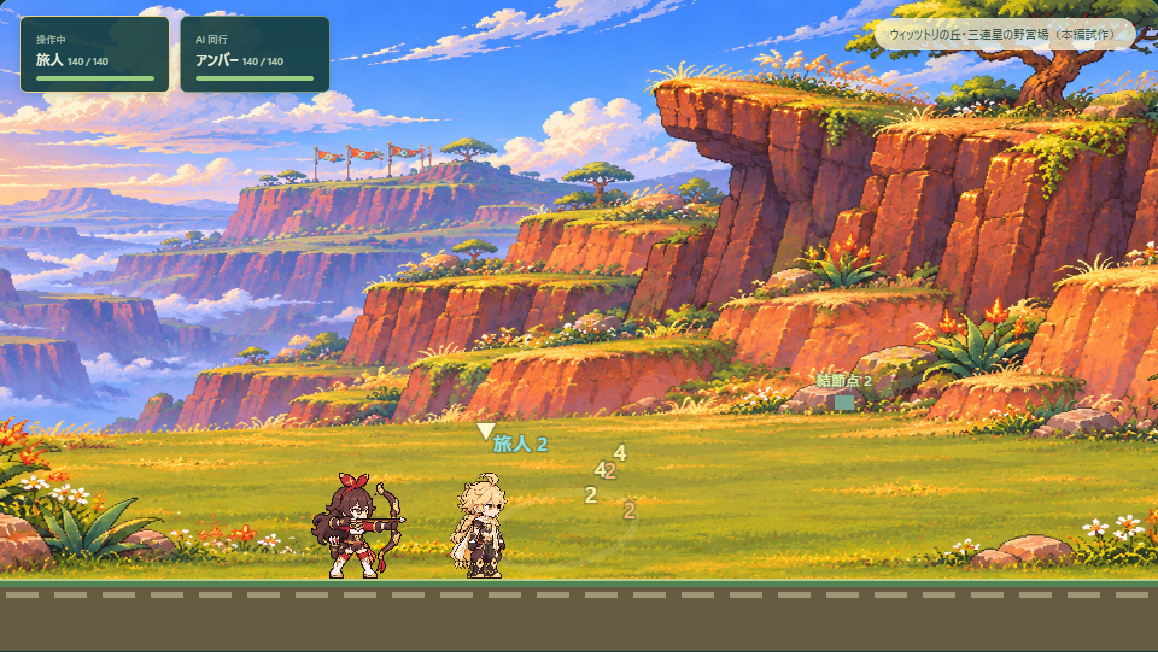
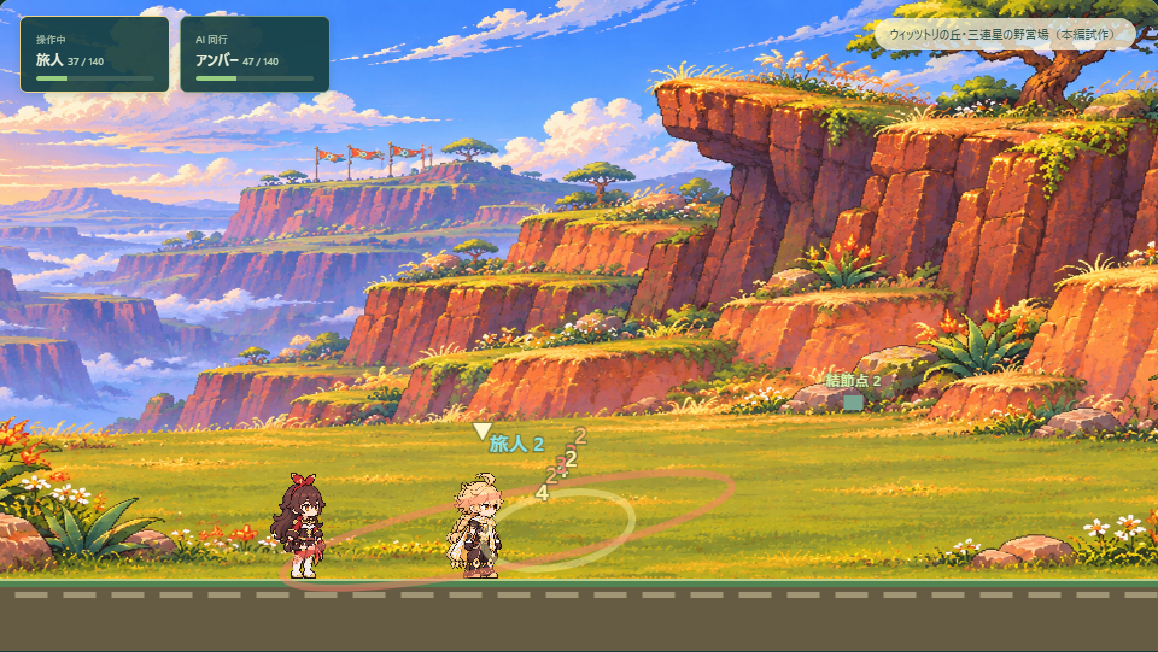
Give grouped local legends distinct attacks and cancel defeated casters

diff --git a/test_coop_legend_groups.py b/test_coop_legend_groups.py
@@ -40,6 +40,85 @@ def field_hp(frame):
     return [body['hp'] for body in frame['bodies']]
 
 
+def verify_moves(lua, core, id):
+    spec = SPECS[id]
+    states = [core.new(12) for _ in range(4)]
+    for state in states:
+        core.action(state, 'story_start')
+        enter(core, state, spec)
+    host, guest, distant, elevated = states
+    room = core.newCoop(host)
+    for state in states:
+        core.attachCoop(room, state)
+    slot, group = room.fieldSlot, room.fieldSlot.enemy
+    members = {body.id: body for body in group.fieldMembers.values()}
+    moves = spec['moves']
+    assert {move['member'] for move in moves} == set(members)
+
+    def wait_for_move(expected):
+        for _ in range(420):
+            core.stepCoop(room, TICK)
+            if slot.cast:
+                break
+        assert slot.cast and slot.cast.move.id == expected['id']
+        assert slot.cast.member.id == expected['member']
+        frames = [native(core.frame(state).fieldBoss) for state in states]
+        assert all(frame['moveOwner'] == expected['member'] for frame in frames)
+        assert all(frame['warnings'] == frames[0]['warnings'] for frame in frames)
+        assert all(warning['element'] == members[expected['member']].element for warning in frames[0]['warnings'])
+        return slot.cast
+
+    fired = []
+    for move in moves:
+        for state in states:
+            place(state, members[move['member']].x - 55)
+        cast = wait_for_move(move)
+        strike = cast.strikes[1]
+        moving = 'travel' in move['steps'][0] or 'wave' in move['steps'][0]
+        impact = strike.position if moving else (strike.left + strike.right) / 2
+        for state in (host, guest, elevated):
+            place(state, impact)
+        place(distant, 20)
+        seqs = [state.seq for state in states]
+        start = members[move['member']].x
+        for _ in range(strike.step.first):
+            elevated.actors[1].y, elevated.actors[1].vy, elevated.actors[1].ground = 250, 0, False
+            core.stepCoop(room, TICK)
+        for index, state in enumerate(states):
+            hurts = [event for event in state.events.values() if event.seq > seqs[index] and event.kind == 'hurt']
+            assert [(event.target, event.element) for event in hurts] == (
+                [(move['member'], members[move['member']].element)] if index < 2 else []
+            )
+            place(state, 20)
+        if 'travel' in move['steps'][0]:
+            assert members[move['member']].x != start
+        fired.append(move['id'])
+        for _ in range(move['total'] - strike.step.first):
+            place(host, max(spec['arenaMin'] + 8, members[move['member']].x - 285))
+            core.stepCoop(room, TICK)
+        assert not slot.cast
+
+    owner = members[moves[0]['member']]
+    place(host, owner.x - 55)
+    wait_for_move(moves[0])
+    place(guest, owner.x)
+    guest_seq = guest.seq
+    assert hit(lua, core, host, owner, 9000) > 0
+    assert not slot.cast and slot.phase == 'combat' and group.hp > 0
+    assert all(core.frame(state).fieldBoss.moveOwner is None for state in states)
+    place(host, members[moves[1]['member']].x - 55)
+    place(guest, members[moves[1]['member']].x - 55)
+    wait_for_move(moves[1])
+    for _ in range(moves[0]['steps'][0]['first']):
+        core.stepCoop(room, TICK)
+    assert not any(event.kind == 'hurt' and event.target == owner.id and event.seq > guest_seq
+                   for event in guest.events.values())
+    assert [state.kills for state in states] == [0] * 4
+    return {'id': id, 'testedMoves': fired, 'participants': len(states), 'defeatedBeforeHit': owner.id,
+            'nextOwner': moves[1]['member'], 'sharedWarningsAndElementPerMember': True,
+            'distanceAndHeightAvoidDamage': True}
+
+
 def simulate_group(lua, core, id):
     spec = SPECS[id]
     states = [core.new(12) for _ in range(4)]
@@ -113,10 +192,15 @@ def simulate_group(lua, core, id):
 def run_lua():
     lua, core = runtime()
     output = [simulate_group(lua, core, id) for id in IDS]
+    for row in output:
+        row['moveChecks'] = verify_moves(lua, core, row['id'])
     state = core.new(12)
     core.action(state, 'story_start')
     entry = NODES[SPECS[TRISTARS]['node']]['exits'][0]['to']
     enter(core, state, SPECS[TRISTARS], entry)
+    for slot in (1, 2, 3):
+        assert core.giveArtifact(state, slot, 40, 3)
+        core.action(state, 'artifact_equip:' + str(slot))
     core.enterStoryNode(state, 'natlan-hub')
     save_json('work/coop-legend-groups-fixture.json', validate_save(native(core.checkpoint(state))))
     return output

diff --git a/test_natlan_first_legends.py b/test_natlan_first_legends.py
@@ -36,6 +36,9 @@ def start(id, level):
     core.action(s, 'story_start')
     core.enterStoryNode(s, HUB)
     core.grantExp(s, exp(level), 'quest')
+    for slot in (1, 2, 3):
+        assert core.giveArtifact(s, slot, 40, 3)
+        core.action(s, 'artifact_equip:' + str(slot))
     core.enterStoryNode(s, HOSTS[id])
     return s
 
@@ -72,11 +75,14 @@ def rewards(s):
 
 
 def defeat(s, walk, body):
-    walk.approach(body.x - 44, 480, body.id)
-    walk.actor.dir = 1
     for _ in range(4500):
         if body.hp <= 0:
             return
+        assert walk.actor.hp > 0 and s.story.node == specs[body.fieldBoss]['node']
+        distance = body.x - walk.actor.x
+        if abs(distance) > 72:
+            walk.approach(body.x - (44 if distance > 0 else -44), 480, body.id)
+        walk.actor.dir = 1 if body.x >= walk.actor.x else -1
         tick(s, 1, attack)
     raise AssertionError((body.id, body.hp, s.t))
 
@@ -132,7 +138,7 @@ snapshots = []
 for i, member in enumerate(members):
     defeat(s, walk, member)
     field = native(core.frame(s).fieldBoss)
-    assert all(body['hp'] == (0 if index <= i else body['maxhp'])
+    assert all(body['hp'] == 0 if index <= i else 0 < body['hp'] <= body['maxhp']
                for index, body in enumerate(field['bodies']))
     assert field['hp'] == sum(body['hp'] for body in field['bodies'])
     snapshots.append([body['hp'] for body in field['bodies']])

diff --git a/test_natlan_final_legends.py b/test_natlan_final_legends.py
@@ -82,11 +82,13 @@ def reward_totals(state):
 
 
 def defeat_body(state, walk, body):
-    walk.approach(body.x - 42, 480, body.id)
-    walk.actor.dir = 1
     for _ in range(6900):
         if body.hp <= 0:
             break
+        distance = body.x - walk.actor.x
+        if abs(distance) > 72:
+            walk.approach(body.x - (42 if distance > 0 else -42), 480, body.id)
+        walk.actor.dir = 1 if body.x >= walk.actor.x else -1
         core.step(state, 1 / 60, attack)
     assert body.hp <= 0, (body.id, body.hp)
 
@@ -169,7 +171,7 @@ assert [body.y - body.hitTop for body in members] == [body['artHeight'] for body
 before = reward_totals(state)
 defeat_body(state, walk, members[0])
 assert reward_totals(state) == before and state.endgame.bosses[PAIR] is None
-assert group.hp == members[1].hp == members[1].maxhp
+assert group.hp == members[1].hp > 0
 walk.cross(d_trail)
 walk.cross(pair['node'])
 state.actors[2].hp = 0

diff --git a/test_snez_late_field_legends.py b/test_snez_late_field_legends.py
@@ -206,7 +206,7 @@ assert [member.hp for member in members] == [member['hp'] for member in beasts['
 for member in members:
     hit(state, walk, member)
 xp[BEASTS] = check_clear(state, beasts, before)
-assert not beasts['moves']
+assert {move['member'] for move in beasts['moves']} == {member.id for member in members}
 walk.cross(alley)
 walk.cross(junction)
 walk.cross(MINE_HOST)

diff --git a/docs/COOP_WEB_PREVIEW.md b/docs/COOP_WEB_PREVIEW.md
@@ -282,9 +282,17 @@ Chromeの2画面で12と14のダメージを重ねて半タルパを倒し、両
 
 各個体は固有のHPを持ち、組のHP欄に残りの合計が出る。最後の1体を倒した時点で、直前12秒にいずれかの個体に有効打を入れ、会場でいずれかの個体の近くにいる参加者に一度ずつ報酬が入る。途中で全員が退くと進行は止まり、戻れば続きから試せる。討伐後は全員で出口を通り、同じ部屋のまま入り直すと全個体と再戦できる。
 
-Luaで各3組の個体HP、途中報酬なし、距離と有効打による報酬対象、セーブ、再戦を確認。HTTPでは異色三連星が途中で全員退出しても、倒した個体が倒されたまま残ることを確かめた。各組の専用技は今後の制作項目。 [Lua・HTTPの検証](../evidence/coop-legend-groups-lua-http.json)
+生きている個体が順番に攻撃する。予告中に攻撃役を倒すと、その攻撃は消えて次の個体に移る。以下はラボ用の試作攻撃。
 
-Chromeの2画面で合言葉を入力し、通常攻撃で三連星を順に討伐した。最初の2体を倒した時点では討伐数0、3体目で両画面に討伐1件と550モラが入り、保存にも記録された。二人で出口を通ってから再入場すると、同じ合言葉の部屋で3体が復帰した。初期セーブは `python test_coop_legend_groups.py`、Chromeの試走は `node test_coop_legend_groups.mjs` で再現できる。 [合流](../evidence/coop-tristars-gather.png) · [一体目の討伐](../evidence/coop-tristars-first-down.png) · [Chromeの検証](../evidence/coop-tristars-browser.json)
+| 地方伝説 | 個体ごとの攻撃 |
+| --- | --- |
+| 異色三連星 | 氷銃は低い冷気弾、雷槌は踏み込みと追い打ち、炎銃は二つの着弾。 |
+| 「戦羊」と「鉄爪」 | 戦羊は角を下げて突進、鉄爪は飛び込みから爪払い。 |
+| 荒くれの異怪の獣衆 | スタヴローギンは木筒から水弾、バルバラは脚刃の二連撃、ヴェルホヴェンスキーは採鉱具の三連打。 |
+
+Luaの4人試験で8体の予告と命中、距離と高さでの回避、討伐による予告の解除、途中報酬が出ないこと、セーブと再戦を確認した。HTTPの2人試験では、異色三連星から一時撤退しても、合流時に倒した個体が復活しないことを確認した。 [Lua・HTTPの検証](../evidence/coop-legend-groups-lua-http.json)
+
+Chromeの2画面で冷気弾の予告を見て氷銃を倒し、雷槌の予告に切り替わることを確認した。最初の2体を倒した時点では討伐数0、3体目で両画面に討伐1件と550モラが入り、保存にも記録された。全員が退出してから同じ部屋で入り直すと3体が復帰する。初期セーブは `python test_coop_legend_groups.py`、Chromeの試走は `node test_coop_legend_groups.mjs` で再現できる。 [氷銃の予告](../evidence/coop-tristars-gather.png) · [氷銃討伐後の雷槌](../evidence/coop-tristars-first-down.png) · [Chromeの検証](../evidence/coop-tristars-browser.json)
 
 ## 深罪の浸礼者を共闘する
 

diff --git a/docs/NATLAN_FINAL_FIELD_LEGENDS_WEB.md b/docs/NATLAN_FINAL_FIELD_LEGENDS_WEB.md
@@ -10,7 +10,7 @@
 
 ピークへの岩道は足場が重なる場所で **Space** を使う。退出すると上段の入口へ戻る。戦羊と鉄爪にはそれぞれのHPと当たり判定があり、二体を倒すと一組分の報酬と討伐記録が付く。片方だけ倒して退出した場合は再入場で二体とも復帰する。ざぶざぶ湾は歩ける浅瀬で、退出すると桟橋の棚に戻る。
 
-任意依頼「岩洞と秘境脇の道標」はナタ拠点で受けられる。山腹の上段と秘境脇の草地で、それぞれ **G** で調べる。戦闘地点は固有名に対応する公式地図のマーカーを参照し、道と足場、依頼はラボ用に作った。背景は仮画像。固有技は仕様待ち。 [ピークの山腹と岩洞](https://gamewith.net/genshin-impact/article/show/54907) · [戦羊と鉄爪の秘境前](https://gamewith.net/genshin-impact/article/show/55053) · [ざぶざぶ湾の現地画面](https://gamewith.jp/genshin/article/show/511996)
+任意依頼「岩洞と秘境脇の道標」はナタ拠点で受けられる。山腹の上段と秘境脇の草地で、それぞれ **G** で調べる。戦闘地点は固有名に対応する公式地図のマーカーを参照し、道と足場、依頼はラボ用に作った。背景は仮画像。戦羊の角の突進と鉄爪の飛び込みからの爪払いは、ラボ用の試作攻撃。 [複数体の共闘と検証](COOP_WEB_PREVIEW.md#複数体いる地方伝説を共闘する) · [ピークの山腹と岩洞](https://gamewith.net/genshin-impact/article/show/54907) · [戦羊と鉄爪の秘境前](https://gamewith.net/genshin-impact/article/show/55053) · [ざぶざぶ湾の現地画面](https://gamewith.jp/genshin/article/show/511996)
 
 共闘では岩洞と浅瀬で攻撃の予告とHPを共有する。戦羊と鉄爪の手前にある草地では、南岸の崖道と征討入口に分かれた仲間が合流できる。現行台帳のナタ本編地域の地方伝説20組を共闘に登録した。古の聖山の微末とオシカ・ナタの銅の錠は別地域の試作に含める。 [共闘の道順と検証](COOP_WEB_PREVIEW.md#ピークと最後のテノチズトク人)
 

diff --git a/docs/NATLAN_FIRST_LEGENDS_WEB.md b/docs/NATLAN_FIRST_LEGENDS_WEB.md
@@ -11,6 +11,8 @@
 
 ジャプーには弦鳴りのさざ波と、二拍の水柱の試作を追加した。協力部屋では仲間のうち一人が攻撃すると戦闘が始まり、両方の攻撃予告を共有する。参加レベル、HP、攻撃はラボの試作で、原作のアチーブメント条件は別途扱う。背景にはナタの仮画像を使用する。 [ジャプーの共闘と検証](COOP_WEB_PREVIEW.md#波のジャプーバラチココシーホ)
 
+異色三連星では、冷気弾、雷槌の踏み込み、炎銃の二連弾を実装した。予告中に攻撃役を倒すと、その攻撃が消えて次の個体に移る。 [複数体の共闘と検証](COOP_WEB_PREVIEW.md#複数体いる地方伝説を共闘する)
+
 ## ドット絵と軽量化
 
 第5稿A案でユーザーが好んだ大きな色面を踏まえ、4人の武器を弦楽器、太い氷銃、角のある大槌、細長い炎銃として描き分けた。名前付きのゲーム画面に加え、標準種の2D画像と装備の見える画像も参照した。待機とテスト用差分の計12枚を約3頭身にそろえ、床ピボットを統一した。 [波のジャプーの戦闘画像](https://www.hoyolab.com/article/34450690) · [異色三連星の戦闘と武器](https://game8.jp/genshin/655669) · [参照記録](../evidence/natlan-first-legends-art-sources.json)

diff --git a/docs/SNEZ_LATE_FIELD_LEGENDS_WEB.md b/docs/SNEZ_LATE_FIELD_LEGENDS_WEB.md
@@ -14,7 +14,7 @@
 
 災禍古樹は「すべての河川を枯らさぬために」の先の支流に、獣衆は「奇妙な灯」の先の市街地に出現する。ラボでは水路の点検と北の街灯の聞き込みでそれぞれの通路を開く。両方とも旧線の東口から同じ分岐を使い、通行条件を満たした後は帰り道も使える。 [晶鉱樹洞の地下地図](https://gamewith.jp/genshin/article/show/586801) · [北の市街地と獣衆3名](https://gamewith.jp/genshin/article/show/586825)
 
-獣衆の3名はそれぞれHPと当たり判定を持つ。ラボでは開始時から3体が並び、全員倒した時点で討伐記録と報酬が1回入る。日替わりの先発、戦闘途中の合流、各個体の技は仕様を詰める段階で扱う。
+獣衆の3名はそれぞれHPと当たり判定を持つ。ラボでは開始時から3体が並び、木筒の水弾、脚刃、採鉱具の三連打を順番に使う。予告中に攻撃役を倒すと、その攻撃が消える。全員倒した時点で討伐記録と報酬が1回入る。日替わりの先発や戦闘途中に敵が参戦する構成は設計中。 [複数体の共闘と検証](COOP_WEB_PREVIEW.md#複数体いる地方伝説を共闘する)
 
 ## 通常個体との見た目の比較
 

diff --git a/CHAT_HANDOFF.md b/CHAT_HANDOFF.md
@@ -1,5 +1,9 @@
 # ChatGPTへの引き継ぎ
 
+## 複数体で出る地方伝説の個体別攻撃
+
+異色三連星、戦羊と鉄爪、荒くれの異怪の獣衆の計8体が、それぞれの試作攻撃を順番に使う。予告中に攻撃役を倒すと、その予告と攻撃が消え、残った個体に交代する。Lua4人とChrome2画面で確認し、全個体討伐で一度だけ個人の報酬と討伐を記録できる。共闘は389地点・136戦。 [攻撃と検証](docs/COOP_WEB_PREVIEW.md#複数体いる地方伝説を共闘する)
+
 ## プリズムスライムとムーシュ＝テヒルの共闘
 
 ナド・クライ北部沿岸から船で円環島を経由し、霜月の入口拠点へ同じ部屋で移動できる。ウージエン生態圏の通行報告後、プリズムスライム（Lv188）に挑める。北西の地下では、コマンダー2体の試験を各自で二つ終え、装置を操作するとムーシュ＝テヒル（Lv190）の最深室で合流できる。共闘は389地点・136戦となり、現行台帳の地方伝説56組がそろった。 [道順と検証](docs/COOP_WEB_PREVIEW.md#プリズムスライムとムーシュテヒル)
